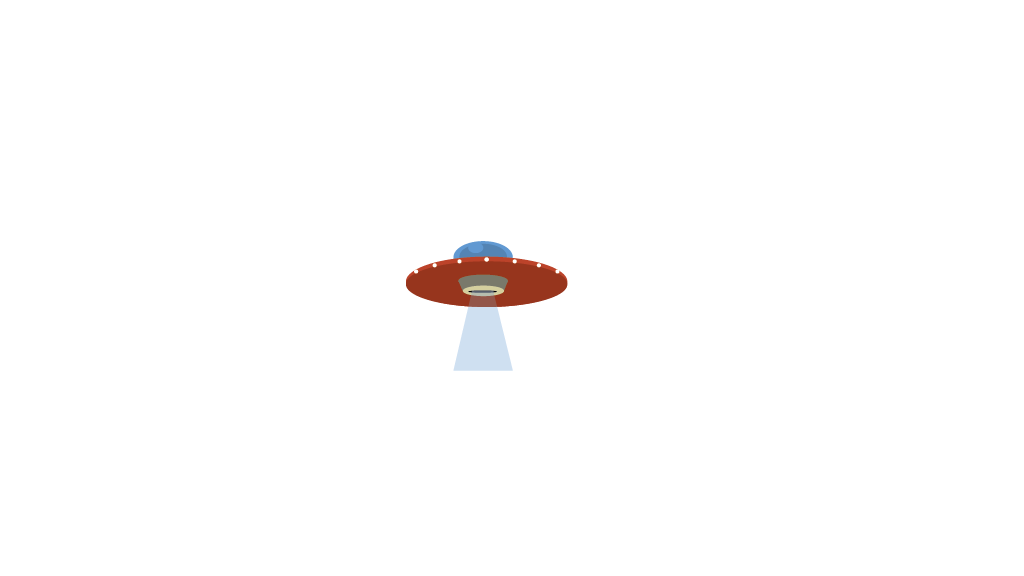
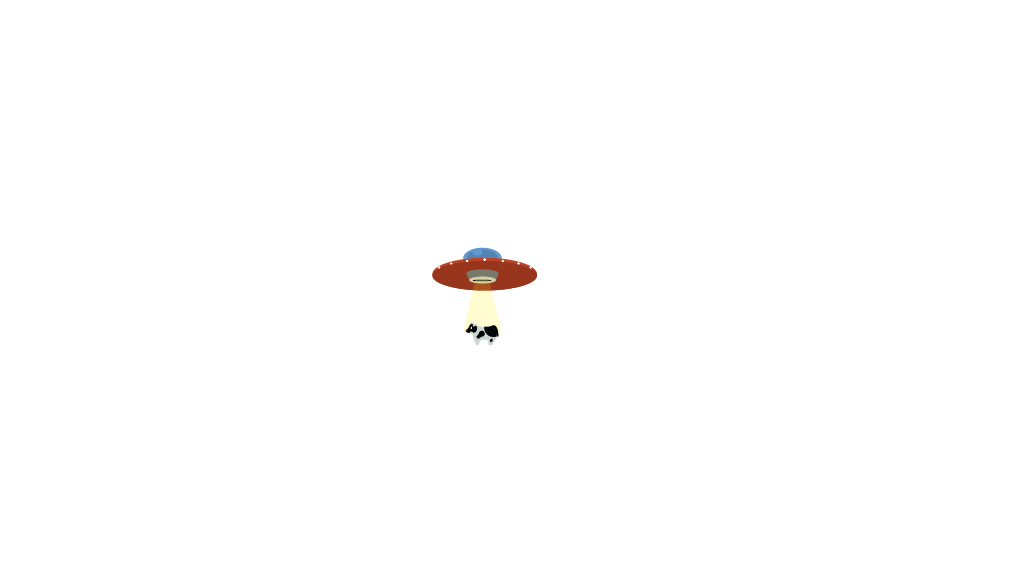
Added new assets/ending and fine tuning

Changed region(s): [[0.375, 0.4062, 0.5625, 0.6562]]

diff --git a/index.js b/index.js
@@ -61,6 +61,15 @@ skillsLevel.src="./img/skillsLevel.png"
 const hardskills = new Image();
 hardskills.src="./img/hardskills.png"
 
+const languages = new Image();
+languages.src ="./img/languages.png"
+
+const languageslevel = new Image();
+languageslevel.src="./img/languageslevel.png"
+
+const planets = new Image();
+planets.src="./img/planets.png"
+
 const canvas = document.querySelector("canvas");
 const c = canvas.getContext("2d");
 
@@ -182,6 +191,7 @@ const platforms = [
     y: 470,
     image: platformFloor,
   }),
+
   new Platform({
     x: platformFloor.width * 6 - 6,
     y: 470,
@@ -203,7 +213,17 @@ const platforms = [
     image: platformFloor,
   }),
   new Platform({
-    x: platformFloor.width * 3 + 400 - 8,
+    x: platformFloor.width * 10 - 10,
+    y: 470,
+    image: platformFloor,
+  }),
+  new Platform({
+    x: platformFloor.width * 11 - 11,
+    y: 470,
+    image: platformFloor,
+  }),
+  new Platform({
+    x: platformFloor.width * 4 + 400 - 8,
     y: 470 - platformFloor.height,
     image: platformFloor,
   })
@@ -225,24 +245,30 @@ class GenericObject {
     c.drawImage(this.image, this.position.x, this.position.y);
   }
 }
-const blocks = [new GenericObject({ x: 1200, y: -400, image: comet })];
+const blocks = [new GenericObject({ x: 1000, y: -550, image: comet })];
 const flowers = [
-  new GenericObject({ x: 1050, y: 700, image: groundFlower }),
-  new GenericObject({ x: 1200, y: 700, image: groundFlower }),
-  new GenericObject({ x: 1350, y: 700, image: groundFlower }),
-  new GenericObject({ x: 1500, y: 700, image: groundFlower }),
-  new GenericObject({ x: 1650, y: 700, image: groundFlower }),
+  new GenericObject({ x: 1450, y: 700, image: groundFlower }),
+  new GenericObject({ x: 1600, y: 700, image: groundFlower }),
+  new GenericObject({ x: 1750, y: 700, image: groundFlower }),
+  new GenericObject({ x: 1900, y: 700, image: groundFlower }),
+  new GenericObject({ x: 2050, y: 700, image: groundFlower }),
 
 ];
 
 
 
 const ufos = [
-  new GenericObject({ x: 4200, y: -200, image: ufo }),
-  new GenericObject({ x: 4300, y: -160, image: ufo }),
-  new GenericObject({ x: 4400, y: -200, image: ufo }),
-  new GenericObject({ x: 4500, y: -160, image: ufo }),
-  new GenericObject({ x: 4600, y: -200, image: ufo }),
+  new GenericObject({ x: 4200, y: -150, image: ufo }),
+  new GenericObject({ x: 4300, y: -150, image: ufo }),
+  new GenericObject({ x: 4400, y: -150, image: ufo }),
+  new GenericObject({ x: 4500, y: -150, image: ufo }),
+  new GenericObject({ x: 4600, y: -150, image: ufo }),
+  new GenericObject({ x: 4600, y: -60, image: ufo }),
+  new GenericObject({ x: 4600, y: -60, image: ufo }),
+  new GenericObject({ x: 4600, y: -60, image: ufo }),
+  new GenericObject({ x: 4600, y: -60, image: ufo }),
+
+
 
 
   ];
@@ -266,18 +292,21 @@ const spaceBackground = [
 
 const genericObjects = [
   new GenericObject({ x: -600, y: -1, image: hills }),
-  new GenericObject({ x: -175, y: -50, image: bigName }),
+  new GenericObject({ x: -50, y: -50, image: bigName }),
+  new GenericObject({ x: 2800, y: -4200, image: planets })
+
+  
 ];
 
 const foreground = [
-  new GenericObject({ x: 1050, y: 50, image: skillsLevel }),
-  new GenericObject({ x: 1400, y: -250, image: hardskills })
-
-
+  new GenericObject({ x: 1450, y: 50, image: skillsLevel }),
+  new GenericObject({ x: 1800, y: -250, image: hardskills }),
+  new GenericObject({ x: 3500, y: 50, image: languageslevel }),
+  new GenericObject({ x: 3660, y: -250, image: languages })
 ]
 
 const flashingArrow = new GenericObject({x:-70, y:0, image:arrow})
-const flag = new GenericObject({ x: 2850, y: -30, image: flagpole })
+const flag = new GenericObject({ x: 3250, y: -30, image: flagpole })
 const rocket = new GenericObject({x:5000,y: -100, image:rocketship})
 const spacebarPrompt = new GenericObject({x:4700,y: 800, image:spacebar})
 const player = new Player();
@@ -311,7 +340,7 @@ function animate() {
   genericObjects.forEach((genericObject) => {
     genericObject.draw();
   });
-
+ 
  
   
   flag.draw()
@@ -349,9 +378,9 @@ function animate() {
     player.velocity.x = 0;
 
     // BLOCK VERTICAL SCROLLING LOGIC
-    if (scrollOffset > 100) {
+    if (scrollOffset > 10) {
         blocks.forEach((block) => {
-            if(block.position.y < -100) {
+            if(block.position.y < - 250) {
             block.position.y += block.speed;
 
         }          
@@ -420,26 +449,24 @@ function animate() {
     }  
   }
       //TESTING VERTICAL MOVEMENT
-
   //CHANGE ROCKET IMAGE ON COLLISION
   if(player.position.x === rocket.position.x && rocket.image=== rocketship) {
     rocket.image = rocketman
+    player.position.x = -5000
     player.position.y = 5000
-    console.log(rocket.position.x)
     player.speed=0
     spacebarPrompt.position.y = 100
-    
-    
-    
   }
   //MOVE ROCKET UP
-  if (keys.up.pressed && rocket.position.y > 40) {
+  if ( keys.up.pressed && rocket.position.y > 40) {
+    console.log(rocket.position.y)
     rocket.position.y --  
-     console.log(rocket.position.y)
   }
   //MOVE BACKGROUND DOWN
   else {
-    if(keys.up.pressed) {
+    if(rocket.image === rocketman && keys.up.pressed && verticalScroll < 950) {
+      verticalScroll ++
+      console.log(verticalScroll)
       spaceBackground.forEach((background) => {
         background.position.y += 4;
       })
@@ -449,6 +476,13 @@ function animate() {
       platforms.forEach((platform)=> {
         platform.position.y += 4 
       }),
+      foreground.forEach((object)=> {
+        object.position.y += 4 
+      }),
+      ufos.forEach((ufo)=> {
+        ufo.position.y += 4 
+      }),
+
       spacebarPrompt.position.y += 4
       
       )
@@ -456,14 +490,13 @@ function animate() {
   }
 
 
-  console.log(scrollOffset)
 
   //BLOCK COLLISION DETECTION
   // -70 because block.width is not accurately representing the size of the block
   blocks.forEach((block) => {
     block.draw();
 
-    if (player.position.y - player.height + 7 <= block.position.y + 190 && player.position.x >= block.position.x && player.position.x <= block.position.x + block.width - 200 && player.position.x >= block.position.x +100 ) {
+    if (player.position.y - player.height + 7 <= block.position.y + 300 && player.position.x >= block.position.x && player.position.x <= block.position.x + block.width - 200 && player.position.x >= block.position.x +100 ) {
         player.velocity.y = 0;
         player.velocity.y = 1;
         // hides block on collision
@@ -488,29 +521,38 @@ function animate() {
   })
 
   // ON FLAG POLE COLLISION UFOS FLY IN FROM RIGHT SIDE
-  if (player.position.y - player.height + 7 <= flag.position.y && player.position.x >= flag.position.x && player.position.x <= flag.position.x + flag.width) {
-      console.log("first")      
-    player.speed = 0
-    setTimeout(() => {
-      player.speed=7
-    },900)
+  if ( player.position.x >= flag.position.x && player.position.x <= flag.position.x + flag.width) {
 
+      const spacing = 160
       var handle =setInterval(()=>{
-        if (ufos[0].position.x > flag.position.x - 250) {
+        if (ufos[0].position.x > flag.position.x) {
           ufos[0].position.x -=3
         }
-        else if (ufos[1].position.x > flag.position.x - 100) {
+        else if (ufos[1].position.x > flag.position.x + spacing) {
           ufos[1].position.x -=3
         }
-        else if (ufos[2].position.x > flag.position.x + 50) {
+        else if (ufos[2].position.x > flag.position.x + spacing * 2) {
           ufos[2].position.x -=3
         }
-        else if (ufos[3].position.x > flag.position.x + 200) {
+        else if (ufos[3].position.x > flag.position.x + spacing * 3) {
           ufos[3].position.x -=3
         }
-        else if (ufos[4].position.x > flag.position.x + 350) {
+        else if (ufos[4].position.x > flag.position.x + spacing * 4) {
           ufos[4].position.x -=2
         }
+        else if (ufos[5].position.x > flag.position.x + spacing * 5) {
+          ufos[5].position.x -=2
+        }
+        else if (ufos[6].position.x > flag.position.x + spacing * 6) {
+          ufos[6].position.x -=2
+        }
+        else if (ufos[7].position.x > flag.position.x + spacing * 7) {
+          ufos[7].position.x -=2
+        }
+        else if (ufos[8].position.x > flag.position.x + spacing * 8) {
+          ufos[8].position.x -=2
+        }
+       
         else clearInterval(handle)
       },30)   
   }
@@ -557,7 +599,6 @@ animate();
 
 //listens for keyCode property of event for movement wasd
 window.addEventListener("keydown", ({ keyCode }) => {
-  console.log(keyCode)
   switch (keyCode) {
     case 32:
       keys.up.pressed = true;
